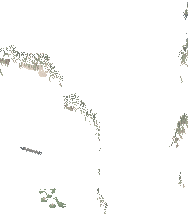
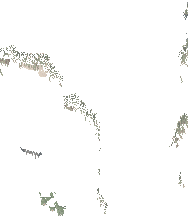
0.7.3: flache Dinge an ihrer Unterkante gespiegelt statt verschoben, Glühwürmchen hörbar, Kamera rundet beim Anhalten in Laufrichtung

Changed region(s): [[0.1837, 0.8611, 0.3367, 1.0], [0.0918, 0.6667, 0.2143, 0.7222]]

diff --git a/tools/world/south/test_reflect_map.py b/tools/world/south/test_reflect_map.py
@@ -1,0 +1,30 @@
+import os
+import sys
+import unittest
+
+import numpy as np
+
+sys.path[:0] = [os.path.dirname(os.path.abspath(__file__)), os.path.join(os.path.dirname(os.path.abspath(__file__)), '..')]
+import reflect_map  # noqa: E402
+
+
+class TestReflectMap(unittest.TestCase):
+    def test_a_flat_thing_is_turned_over_not_moved(self):
+        # phone 0.7.2: stones and lily pads showed moved down, not mirrored
+        H, W = 20, 5
+        low = np.zeros((H, W), np.uint8)
+        ground = np.zeros((H, W, 3), np.uint8)
+        low[4:7, 2] = 1                                         # a 3-px tall thing: rows 4 (top) .. 6 (bottom)
+        ground[4, 2], ground[5, 2], ground[6, 2] = (200, 0, 0), (0, 200, 0), (0, 0, 200)
+        water = np.ones((H, W), bool)
+        water[low > 0] = False
+        out = reflect_map.bake(H, W, water, np.zeros((H, W, 4), np.uint8), np.zeros((H, W), np.uint8),
+                               low, ground, [])
+        col = [tuple(out[y, 2, :3]) for y in range(H) if out[y, 2, 3] > 0]
+        self.assertEqual(len(col), 3)
+        self.assertGreater(col[0][2], 0, 'the bottom row (blue) comes first under it')
+        self.assertGreater(col[2][0], 0, 'the top row (red) lies furthest down')
+
+
+if __name__ == '__main__':
+    unittest.main()

diff --git a/tools/world/south/reflect_map.py b/tools/world/south/reflect_map.py
@@ -16,8 +16,15 @@ def bake(H, W, open_water, flowers, bend, low, ground, sprites):
     m = (flowers[..., 3] > 0) & (bend > 0) & (bend < 255)
     y, x = np.nonzero(m)
     xs.append(x); ys.append(y); cols.append(flowers[y, x, :3]); feet.append(y + bend[y, x].astype(int))
-    y, x = np.nonzero(low > 0)
-    xs.append(x); ys.append(y); cols.append(ground[y, x, :3]); feet.append(y + low[y, x].astype(int))
+    # a flat thing mirrors at its own lower edge (its waterline), column by column, plus its height over
+    # the water: the bottom row shows first, the top row furthest down - turned over, not just moved
+    from scipy import ndimage as ndi
+    lab, _ = ndi.label(low > 0)
+    y, x = np.nonzero(lab > 0)
+    key = lab[y, x].astype(np.int64) * W + x
+    bottom = np.zeros(key.max() + 1, np.int64)
+    np.maximum.at(bottom, key, y)
+    xs.append(x); ys.append(y); cols.append(ground[y, x, :3]); feet.append(bottom[key] + low[y, x].astype(int))
     for rgba, sx, sy, foot in sprites:
         y, x = np.nonzero(rgba[..., 3] > 0)
         xs.append(x + sx); ys.append(y + sy); cols.append(rgba[y, x, :3]); feet.append(np.full(len(y), foot))

diff --git a/tools/world/south/reflect_anim.py b/tools/world/south/reflect_anim.py
@@ -19,8 +19,15 @@ def upright_from_layer(layer, bend, x0, y0):
 def upright_from_low(ground, low, x0, y0):
     """Flat things drawn into the ground (jetty, boat, bridges, stones in the water): low holds how many
     pixels they stand above the water, so only their edges show mirrored, close under them."""
-    ys, xs = np.nonzero(low > 0)
-    return [(x0 + x, y0 + y, ground[y, x].astype(float), y0 + y + int(low[y, x])) for y, x in zip(ys, xs)]
+    from scipy import ndimage as ndi                   # mirrored at each thing's own lower edge, per column
+    lab, _ = ndi.label(low > 0)
+    ys, xs = np.nonzero(lab > 0)
+    bottom = {}
+    for y, x in zip(ys, xs):
+        k = (lab[y, x], x)
+        bottom[k] = max(bottom.get(k, y), y)
+    return [(x0 + x, y0 + y, ground[y, x].astype(float), y0 + bottom[(lab[y, x], x)] + int(low[y, x]))
+            for y, x in zip(ys, xs)]
 
 
 def upright_from_sprite(pic, sx, sy, foot):
